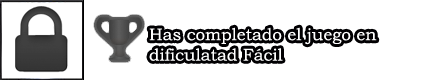
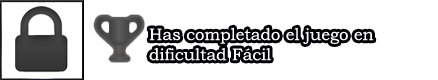
Commit fix
Correct images trophies
Add btn control to mainmenu

Changed region(s): [[0.3265, 0.3, 0.8904, 0.8]]

diff --git a/Nightrain/Assets/Scripts/MainMenu/MainMenuGUI.cs b/Nightrain/Assets/Scripts/MainMenu/MainMenuGUI.cs
@@ -19,6 +19,9 @@ public class MainMenuGUI {
 	private Texture2D hoverTrophiesTexture;
 	private Texture2D exitGameTexture;
 	private Texture2D hoverExitGameTexture;
+	private Texture2D controlsTexture;
+	private Texture2D hoverControlsTexture;
+	private Texture2D backgroundControlsTexture;
 	
 	// ====== TEXTURES CHARACTER SELECTOR ======
 	private Texture2D selectorCharacterTexture;
@@ -87,6 +90,8 @@ public class MainMenuGUI {
 	private bool isInsideWindow = false;
 	// SHOW LOAD GAME
 	private bool isLoadGame = false;
+	// SHOW CONTROLS GAME
+	private bool isControlsGame = false;
 
 	// SAVE CHARACTER SELECTED
 	private string character = "hombre";
@@ -134,9 +139,15 @@ public class MainMenuGUI {
 
 		this.trophiesTexture = Resources.Load<Texture2D>("MainMenu/trophy");
 		this.hoverTrophiesTexture = Resources.Load<Texture2D> ("MainMenu/hover_trophy");
+
+		this.controlsTexture = Resources.Load<Texture2D>("MainMenu/controls");
+		this.hoverControlsTexture = Resources.Load<Texture2D> ("MainMenu/hover_controls");
 		
 		this.exitGameTexture = Resources.Load<Texture2D>("MainMenu/exit");
 		this.hoverExitGameTexture = Resources.Load<Texture2D>("MainMenu/hover_exit");
+
+		// CONTROLS BACKGROUND
+		this.backgroundControlsTexture = Resources.Load<Texture2D>("MainMenu/controles_menu");	
 
 		// CHARACTER SELECTOR
 		this.selectorCharacterTexture = Resources.Load<Texture2D>("MainMenu/logo_selector");	
@@ -226,35 +237,42 @@ public class MainMenuGUI {
 
 			// NEW GAME
 			Rect play_box = new Rect (Screen.width/2 - this.resizeTextureWidth(this.newGameTexture)/2,
-			                          Screen.height/1.95f,
+			                          Screen.height/2.25f,
 			                          this.resizeTextureWidth(this.newGameTexture),
 			                          this.resizeTextureHeight(this.newGameTexture));
 			Graphics.DrawTexture (play_box, this.newGameTexture);
 
 			// LOAD GAME
 			Rect load_box = new Rect (Screen.width/2 - this.resizeTextureWidth(this.loadGameTexture)/2,
-			                          Screen.height/1.65f,
+			                          Screen.height/1.87f,
 			                          this.resizeTextureWidth(this.loadGameTexture),
 			                          this.resizeTextureHeight(this.loadGameTexture));
 			Graphics.DrawTexture (load_box, this.loadGameTexture);
 
 			// TROPHIES GAME
 			Rect trophies_box = new Rect (Screen.width/2 - this.resizeTextureWidth(this.trophiesTexture)/2,
-			                          	  Screen.height/1.44f,
+			                          	  Screen.height/1.6f,
 			                              this.resizeTextureWidth(this.trophiesTexture),
 			                              this.resizeTextureHeight(this.trophiesTexture));
 			Graphics.DrawTexture (trophies_box, this.trophiesTexture);
 
+			// CONTROL GAME
+			Rect control_box = new Rect (Screen.width/2 - this.resizeTextureWidth(this.controlsTexture)/2,
+			                              Screen.height/1.4075f,
+			                             this.resizeTextureWidth(this.controlsTexture),
+			                             this.resizeTextureHeight(this.controlsTexture));
+			Graphics.DrawTexture (control_box, this.controlsTexture);
+
 			// CREDITS GAME
 			Rect credit_box = new Rect (Screen.width/2 - this.resizeTextureWidth(this.creditTexture)/2,
-			                          	Screen.height/1.28f,
+			                          	Screen.height/1.25f,
 			                            this.resizeTextureWidth(this.creditTexture),
 			                            this.resizeTextureHeight(this.creditTexture));
 			Graphics.DrawTexture (credit_box, this.creditTexture);
 
 			// EXIT GAME
 			Rect exit_box = new Rect (Screen.width/2 - this.resizeTextureWidth(this.exitGameTexture)/2,
-			                          Screen.height/1.15f,
+			                          Screen.height/1.13f,
 			                          this.resizeTextureWidth(this.exitGameTexture),
 			                          this.resizeTextureHeight(this.exitGameTexture));
 			Graphics.DrawTexture (exit_box, this.exitGameTexture);
@@ -263,7 +281,7 @@ public class MainMenuGUI {
 			// ============== ACTION BUTTONS ===================
 
 
-			if(!this.isLoadGame){
+			if(!this.isLoadGame && !this.isControlsGame){
 				// ACTION PLAY GAME BUTTON
 				if (play_box.Contains (Event.current.mousePosition)) {
 					Graphics.DrawTexture (play_box, this.hoverNewGameTexture);
@@ -326,6 +344,23 @@ public class MainMenuGUI {
 				} else {
 					Graphics.DrawTexture (trophies_box, this.trophiesTexture);
 					if(hoveredButton == trophies_box) hoveredButton = new Rect();
+				}
+
+				// ACTION CONTROLS BUTTON
+				if (control_box.Contains (Event.current.mousePosition)) {
+					Graphics.DrawTexture (control_box, this.hoverControlsTexture);
+					if (hoveredButton != control_box) {
+						hoverSound.audio.Play ();
+						hoveredButton = control_box;
+					}
+					if (Input.GetMouseButtonDown (0)) { 
+						this.clip.Play();
+						this.isControlsGame = true;
+						Debug.Log("IsControlGame: " + this.isControlsGame);
+					}
+				} else {
+					Graphics.DrawTexture (control_box, this.controlsTexture);
+					if(hoveredButton == control_box) hoveredButton = new Rect();
 				}
 
 				// ACTION CREDIT BUTTON
@@ -773,6 +808,38 @@ public class MainMenuGUI {
 				}
 			}
 
+		}
+		
+	}
+
+	// DIFFICULTY SELECTOR
+	public void showControls(){
+		Debug.Log ("Desde ShowCotrnosl: " + this.isControlsGame);
+		if (this.isControlsGame) {
+			
+			// DIFFICULTY WINDOW
+			Rect window_data_box = new Rect (Screen.width/2 - this.resizeTextureWidth(this.backgroundControlsTexture)/3,
+			                                 Screen.height/2 - this.resizeTextureHeight(this.backgroundControlsTexture)/3,
+			                                 this.resizeTextureWidth(this.backgroundControlsTexture)/1.5f,
+			                                 this.resizeTextureHeight(this.backgroundControlsTexture)/1.5f);
+
+			GUI.DrawTexture (window_data_box, this.backgroundControlsTexture);
+			
+
+			
+			// ============== ACTION BUTTONS ===================
+			
+			// ACTION BUTTON
+			if (window_data_box.Contains (Event.current.mousePosition)) {
+				this.isInsideWindow = true;
+			} else{
+				if (Input.GetMouseButtonDown(0) && this.isInsideWindow) { 
+					this.isControlsGame = false;
+					this.isInsideWindow = false;
+					delay = .5f;
+				}
+			}
+			
 		}
 		
 	}

diff --git a/Nightrain/Assets/Scripts/MainMenu/GameEngineMainMenu.cs b/Nightrain/Assets/Scripts/MainMenu/GameEngineMainMenu.cs
@@ -20,5 +20,6 @@ public class GameEngineMainMenu : MonoBehaviour {
 		this.gui.characterSelector ();
 		this.gui.difficultySelector ();
 		this.gui.loadSaveGame ();
+		this.gui.showControls ();
 	}
 }
